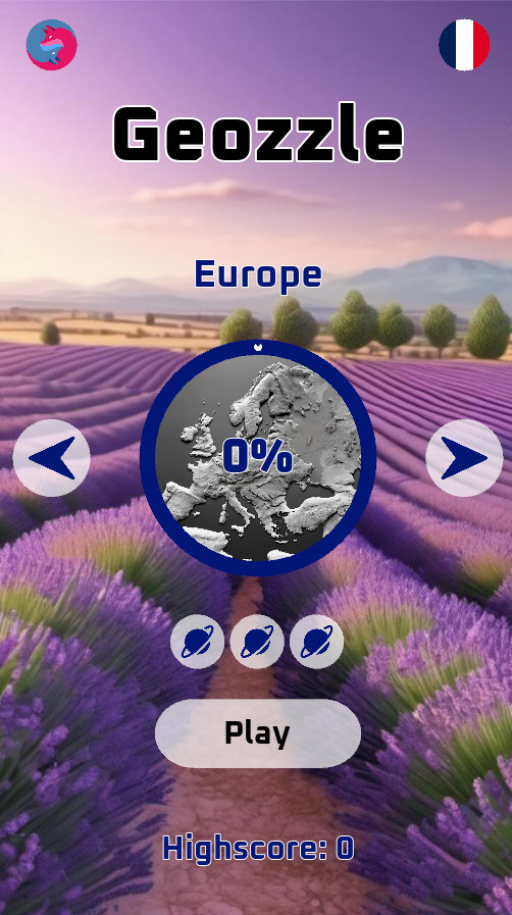
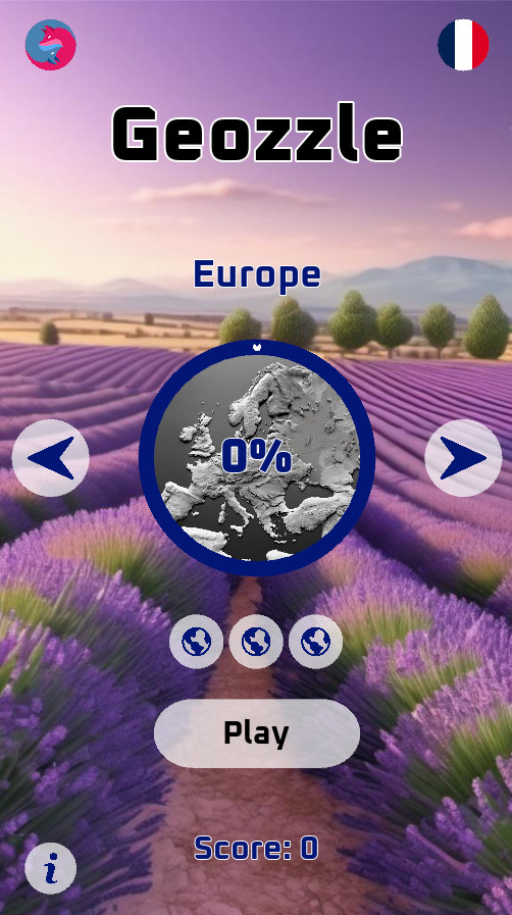
button spinner size (merci agathe)

diff --git a/tools/constants.py b/tools/constants.py
@@ -241,6 +241,7 @@ MAIN_TEXT_FONT_SIZE = 30
 MAIN_BUTTON_FONT_SIZE = 25
 HIGHSCORE_FONT_SIZE = 25
 BUTTON_FONT_SIZE = 20
+SPINNER_BUTTON_FONT_SIZE = 20
 SUB_TEXT_FONT_SIZE = 20
 SMALL_BUTTON_FONT_SIZE = 15
 

diff --git a/README.md b/README.md
@@ -65,12 +65,13 @@ python main.py
 
 <table align="center">
     <tr>
-        <td align="justify">A tutorial has been written inside the game and when the user launches the game for the first time, the tutorial is displayed. The user can also see it again by clicking on the information button on the bottom-left hand corner of the home screen.
-        The by-default language is english, but the player rather play in french they can switch the game language by clicking on the flag button on the top-right hand corner of the home screen.t</td>
+        <td align="justify">A tutorial has been written inside the game and when the user launches the game for the first time, the tutorial is displayed. The user can also see it again by clicking on the information button on the bottom-left hand corner of the home screen. 
+        The default language is English, but if the player prefers to play in French, they can switch the game language by clicking on the flag button in the top-right corner of the home screen.</td>
         <td align="center"><img src="resources/images/tuto/home_screen_en.png?raw=true" alt="some text" width=800></td>
     </tr>
 
 </table>
+
 ## Architecture of the project
 
 The project is divided into several folders:
